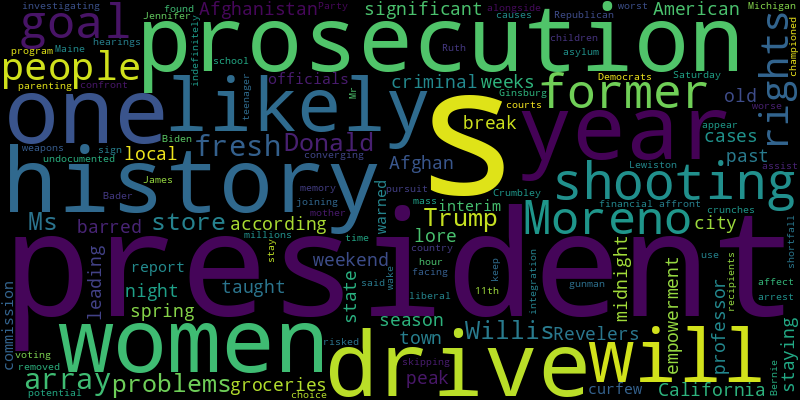
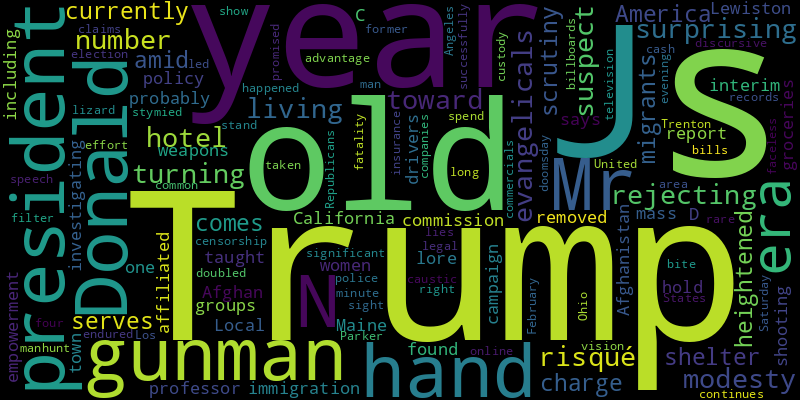
chore(bot): 🙈 auto commit

diff --git a/README.md b/README.md
@@ -2,32 +2,33 @@
 Auto RSS New York Times and Generate Word Cloud
 
 ## New York Times Global News
+* Many hospitals in Haiti’s capital have been looted by gangs or abandoned by their staffs amid the violence. Some are open, but too dangerous for people in need of care to reach.
+* The authorities said the eruption on Saturday night was the most powerful of a series that started in December.
+* While there is little doubt about the vote’s outcome, there is concern that an emboldened President Putin may use a win to start a new war mobilization.
+* Adding methods of aid delivery has not eased the enclave’s wartime hunger crisis, experts say. Cease-fire talks are expected to resume soon.
 * The first case tried under Australia’s foreign interference laws has raised tough questions about the breadth of the regulations.
+* The surprise attacks, timed to Russia’s election, are meant to undermine the sense of stability in Russia and divert the country’s military resources from Ukraine.
+* The 200 tons of food provided by a celebrity chef’s charity arrived as UNICEF said rising numbers of children in Gaza were facing food deprivation.
 * Poor water pressure and dry hydrants posed major obstacles to fighting the February fire that killed scores of people along the country’s Pacific Coast.
 * A time of religious devotion, dawn-to-dusk fasting and charity is instead a daily struggle for survival.
 * Russia is holding a presidential vote in the occupied regions of Ukraine to try to legitimize its rule there, expose dissenters and present a veneer of democracy.
-* Escalating tensions in the South China Sea, President Ferdinand R. Marcos Jr. says, are not only a regional issue, but a global one.
-* The Gaza Health Ministry accused Israel of a “targeted” attack. Israel’s military denied the accusation, blaming Palestinian gunmen for the violence.
-* India’s general elections will determine the political direction of the world’s most populous nation for the next five years.
-* Diplomats gathered in Oman in January, with the U.S. side seeking to stop attacks on Red Sea shipping and American bases, and Iran looking for a Gaza cease-fire.
-* About one in every 20 children in shelters and health centers in northern Gaza is experiencing “severe wasting,” the most critical sign of malnutrition, according to the U.N. agency.
-* Di Sanh Duong openly said that some people might mistake him for a Chinese spy, but he maintained that he never did anything to hurt Australia.
 
 ![Global](./global.png)
 ## New York Times United States News
-* A fresh array of problems are in store for Ms. Willis and her prosecution of Donald Trump, one of the most significant state criminal cases in American history.
-* The 82-year-old professor has taught more Afghan women in a California town to drive than likely drive in all Afghanistan, according to local lore. For them, it’s not about empowerment; it’s for groceries.
-* Revelers will be barred from staying out past midnight each night this weekend. In the weeks leading up to peak spring break season, city officials had warned that a curfew was likely.
+* In the Trump era, a surprising number of evangelicals are rejecting modesty and turning toward the risqué.
+* The suspect and the 15-year-old were both living in a hotel that currently serves as a migrants shelter. The charge comes amid heightened scrutiny over America’s immigration policy.
+* Local lore says that one 82-year-old professor has probably taught more Afghan women drivers in a California town than there are in all Afghanistan. For them, it’s not about empowerment; it’s for groceries.
 * An interim report from a commission investigating the mass shooting in Lewiston, Maine, found that the gunman’s weapons could and should have been removed.
-* The prosecution of James and Jennifer Crumbley could affect the courts and parenting in the wake of the worst school shooting in Michigan history.
-* The former president is facing converging financial crunches as he and the Republican Party confront a shortfall against President Biden and the Democrats.
-* The former president will appear alongside Bernie Moreno on Saturday, one potential sign that Mr. Moreno could use an 11th-hour assist.
-* The goal of the program is to keep people from skipping out on their asylum hearings, joining the millions of undocumented people who stay in the country indefinitely.
-* The children of Ruth Bader Ginsburg, who championed liberal causes and women’s rights, said the choice of recipients this year was an “affront” to the memory of their mother.
-* She risked arrest and worse in pursuit of her goals of integration and voting rights from the time she was a teenager.
+* The president’s campaign and affiliated groups, including the D.N.C., hold a significant cash-on-hand advantage over Donald J. Trump and Republicans, as Mr. Trump continues to spend on legal bills.
+* Their claims of censorship have successfully stymied the effort to filter election lies online.
+* In a caustic and discursive speech in Ohio, former President Donald J. Trump once again doubled down on a doomsday vision of the United States.
+* The rare fatality happened after the man endured a four-minute-long bite from the lizard to his right hand in February, records show.
+* In the Los Angeles area, Mr. Parker was a common sight on billboards and television commercials in which he promised to stand up to faceless insurance companies.
+* A manhunt led the police to Trenton, N.J., where the gunman was taken into custody Saturday evening.
 
 ![US](./usnews.png)
 ## New York Times Asia News
+* I worried about his ability to fit in. But then he fell in love with Russian — and on a trip to Central Asia, he flourished.
 * India’s general elections will determine the political direction of the world’s most populous nation for the next five years.
 * Escalating tensions in the South China Sea, President Ferdinand R. Marcos Jr. says, are not only a regional issue, but a global one.
 * Lists of donors and beneficiaries cast government contracts and police investigations in an unflattering new light.
@@ -37,6 +38,5 @@ Auto RSS New York Times and Generate Word Cloud
 * Also, a top U.S. senator calls for Israeli elections.
 * The island democracy urgently needs an internet backup. Mr. Musk’s total control over his Starlink service, which dominates the market, left Taiwan wary.
 * A new regulation aims to rid the palm oil supply chain of imports that come from former forestland. Southeast Asian countries say it threatens livelihoods.
-* The risks have less to do with who owns the app than who writes the code and algorithms that make TikTok tick.
 
 ![Asian](./asian.png)
